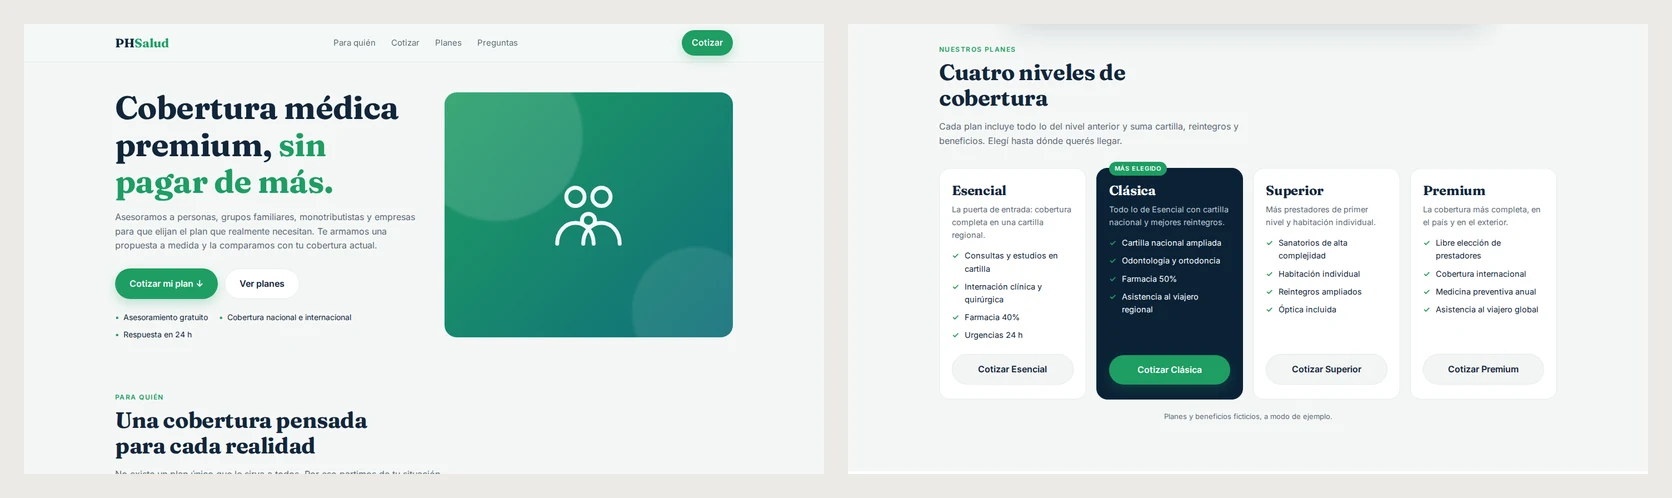
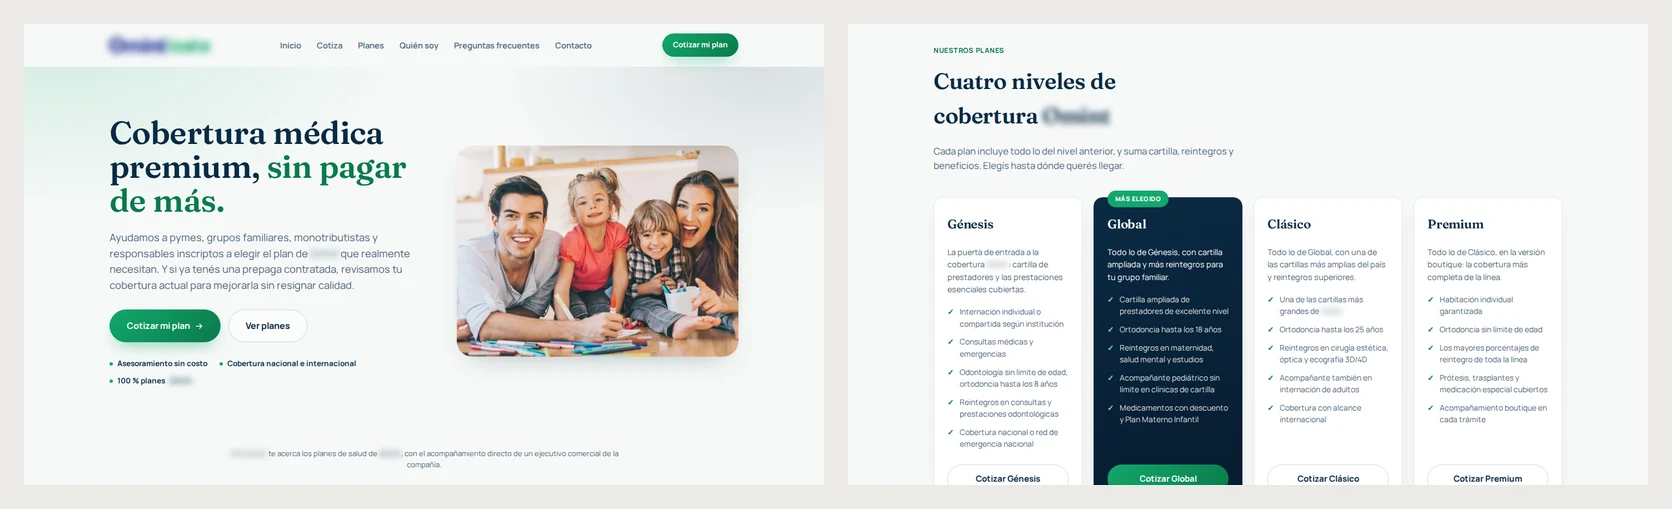
Use real landing page screenshots with blurred branding
Claude-Session: https://claude.ai/code/session_01S88pvTST33WSN8VUHx1zF9

diff --git a/cv/portfolio.html b/cv/portfolio.html
@@ -9,7 +9,7 @@
 <link rel="preconnect" href="https://fonts.gstatic.com" crossorigin>
 <link rel="stylesheet" href="https://fonts.googleapis.com/css2?family=Audiowide&family=Inter:wght@400;500;600&display=swap">
 <script>try{if(localStorage.getItem("mode")==="dark")document.documentElement.dataset.mode="dark"}catch(e){}</script>
-<link rel="stylesheet" href="assets/style.css?v=20261016">
+<link rel="stylesheet" href="assets/style.css?v=20261017">
 </head>
 <body>
 <div class="grain" aria-hidden="true"></div>
@@ -109,7 +109,7 @@
 
   <article class="work r">
     <a class="shot" href="demo/landing/index.html" target="_blank" rel="noopener">
-      <img src="assets/img/landing.webp" width="1672" height="498" alt="Landing page de captación: inicio y planes, con marca ficticia">
+      <img src="assets/img/landing.webp" width="1672" height="509" alt="Landing page de captación: inicio y planes, con la marca desenfocada">
     </a>
     <div class="work-body">
       <span class="label tool"><span class="role">Business Analyst</span> Claude · Forms · Hostinger</span>
@@ -142,6 +142,6 @@
 
 <section class="next r" id="next"></section>
 <footer id="footer"></footer>
-<script src="assets/site.js?v=20261016"></script>
+<script src="assets/site.js?v=20261017"></script>
 </body>
 </html>

diff --git a/cv/index.html b/cv/index.html
@@ -9,7 +9,7 @@
 <link rel="preconnect" href="https://fonts.gstatic.com" crossorigin>
 <link rel="stylesheet" href="https://fonts.googleapis.com/css2?family=Audiowide&family=Inter:wght@400;500;600&display=swap">
 <script>try{if(localStorage.getItem("mode")==="dark")document.documentElement.dataset.mode="dark"}catch(e){}</script>
-<link rel="stylesheet" href="assets/style.css?v=20261016">
+<link rel="stylesheet" href="assets/style.css?v=20261017">
 </head>
 <body class="home">
 <div class="grain" aria-hidden="true"></div>
@@ -56,6 +56,6 @@
 
 <section class="next r" id="next"></section>
 <footer id="footer"></footer>
-<script src="assets/site.js?v=20261016"></script>
+<script src="assets/site.js?v=20261017"></script>
 </body>
 </html>

diff --git a/cv/contacto.html b/cv/contacto.html
@@ -9,7 +9,7 @@
 <link rel="preconnect" href="https://fonts.gstatic.com" crossorigin>
 <link rel="stylesheet" href="https://fonts.googleapis.com/css2?family=Audiowide&family=Inter:wght@400;500;600&display=swap">
 <script>try{if(localStorage.getItem("mode")==="dark")document.documentElement.dataset.mode="dark"}catch(e){}</script>
-<link rel="stylesheet" href="assets/style.css?v=20261016">
+<link rel="stylesheet" href="assets/style.css?v=20261017">
 </head>
 <body>
 <div class="grain" aria-hidden="true"></div>
@@ -39,6 +39,6 @@
 
 <section class="next r" id="next"></section>
 <footer id="footer"></footer>
-<script src="assets/site.js?v=20261016"></script>
+<script src="assets/site.js?v=20261017"></script>
 </body>
 </html>

diff --git a/cv/experiencia.html b/cv/experiencia.html
@@ -9,7 +9,7 @@
 <link rel="preconnect" href="https://fonts.gstatic.com" crossorigin>
 <link rel="stylesheet" href="https://fonts.googleapis.com/css2?family=Audiowide&family=Inter:wght@400;500;600&display=swap">
 <script>try{if(localStorage.getItem("mode")==="dark")document.documentElement.dataset.mode="dark"}catch(e){}</script>
-<link rel="stylesheet" href="assets/style.css?v=20261016">
+<link rel="stylesheet" href="assets/style.css?v=20261017">
 </head>
 <body>
 <div class="grain" aria-hidden="true"></div>
@@ -97,6 +97,6 @@
 
 <section class="next r" id="next"></section>
 <footer id="footer"></footer>
-<script src="assets/site.js?v=20261016"></script>
+<script src="assets/site.js?v=20261017"></script>
 </body>
 </html>

diff --git a/cv/habilidades.html b/cv/habilidades.html
@@ -9,7 +9,7 @@
 <link rel="preconnect" href="https://fonts.gstatic.com" crossorigin>
 <link rel="stylesheet" href="https://fonts.googleapis.com/css2?family=Audiowide&family=Inter:wght@400;500;600&display=swap">
 <script>try{if(localStorage.getItem("mode")==="dark")document.documentElement.dataset.mode="dark"}catch(e){}</script>
-<link rel="stylesheet" href="assets/style.css?v=20261016">
+<link rel="stylesheet" href="assets/style.css?v=20261017">
 </head>
 <body>
 <div class="grain" aria-hidden="true"></div>
@@ -97,6 +97,6 @@
 
 <section class="next r" id="next"></section>
 <footer id="footer"></footer>
-<script src="assets/site.js?v=20261016"></script>
+<script src="assets/site.js?v=20261017"></script>
 </body>
 </html>
